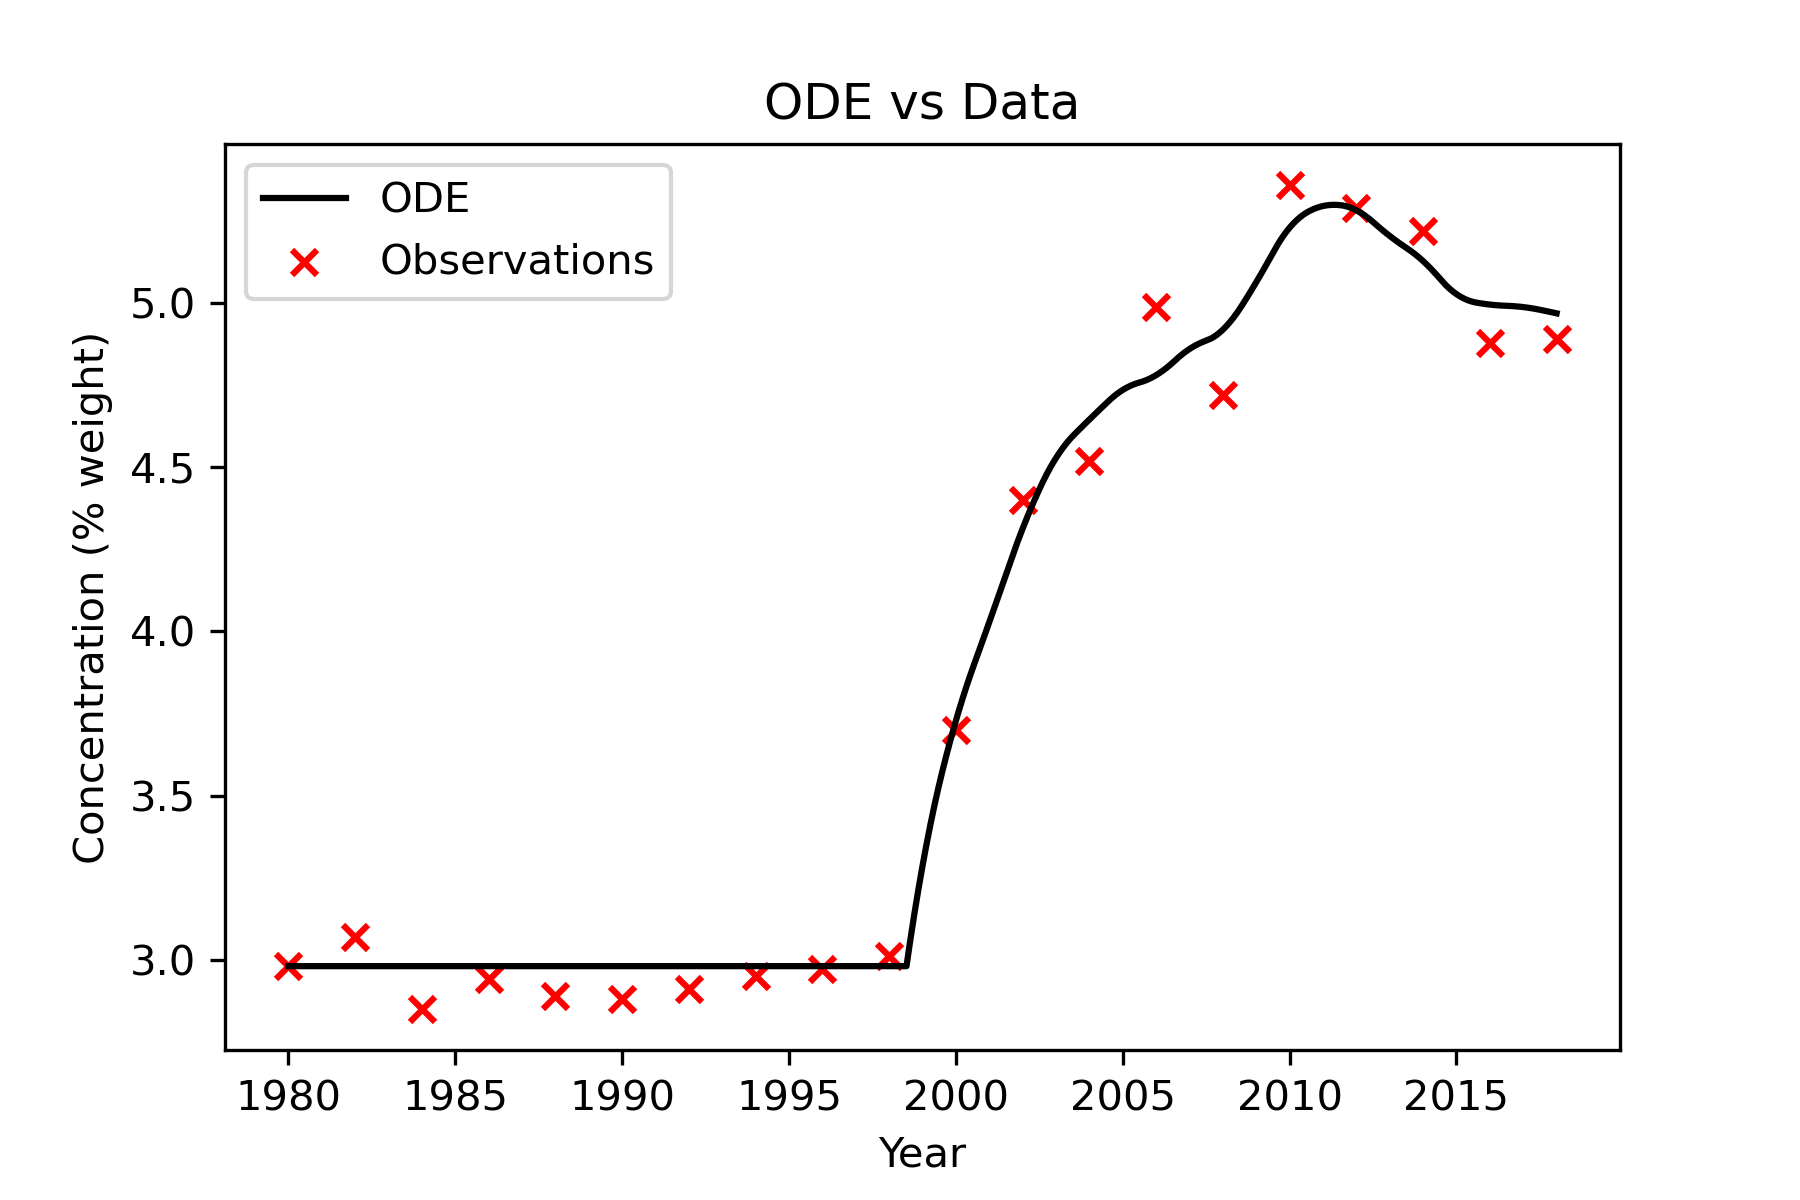
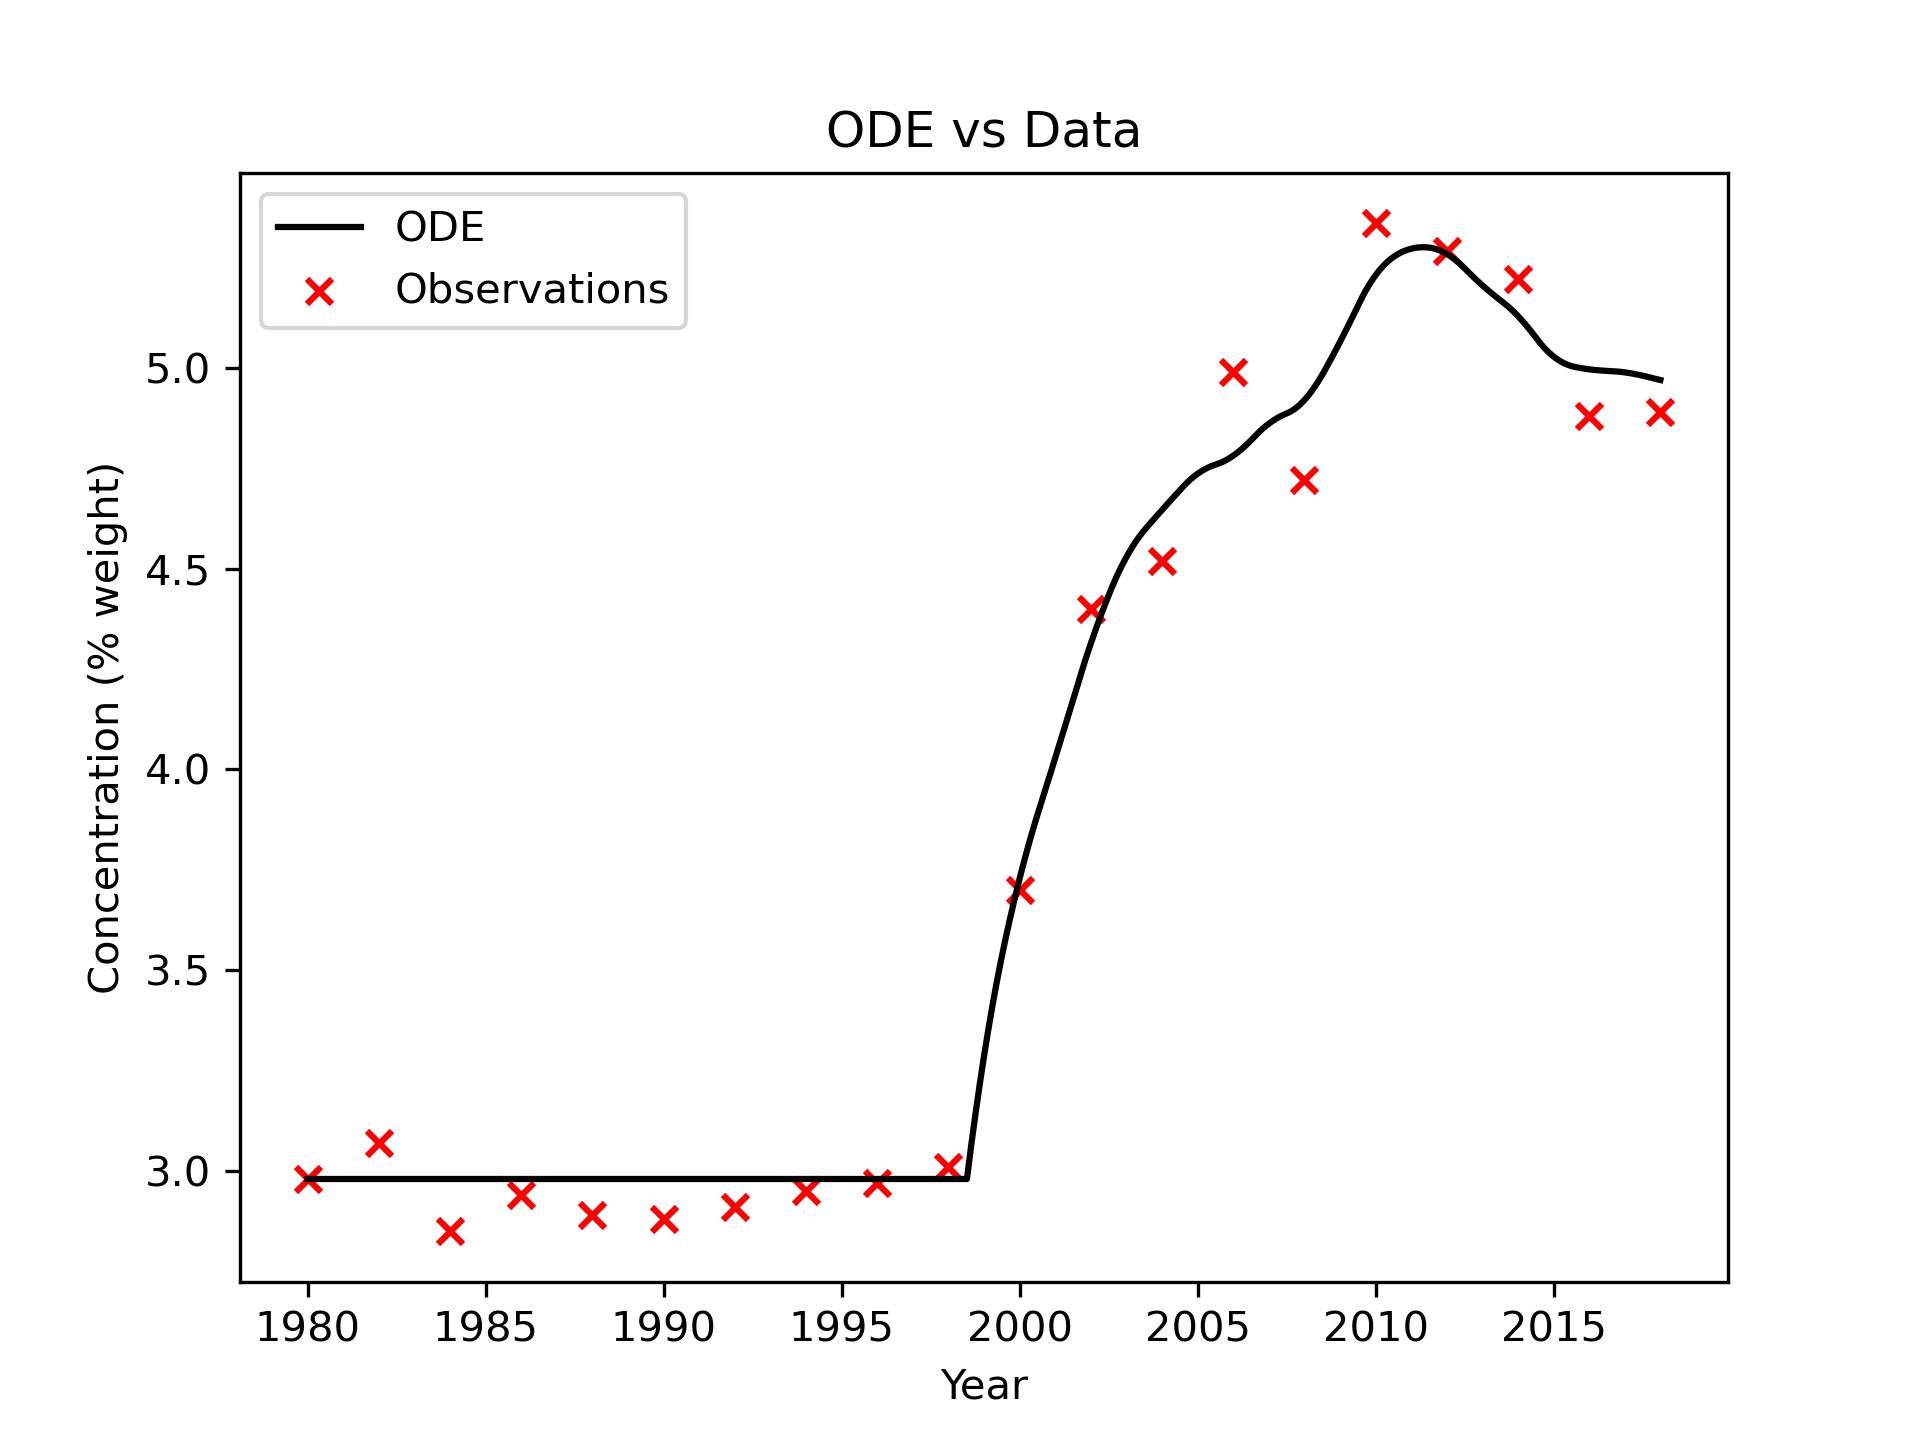
edited plotting

diff --git a/project_1/plot_lpm.py b/project_1/plot_lpm.py
@@ -42,10 +42,8 @@ def plot_pressure_benchmark():
 
     # plot the model solution
     ax1.plot(t_ode, p_ode, color = 'k', label = 'ODE')
-    pars_formatted = []
-    for i in range(len(PARS_P)):
-        pars_formatted.append(np.format_float_scientific(PARS_P[i], precision = 3))
-    ax1.set_title('ODE vs Data \n a=%s b=%s c=%s'% (pars_formatted[0],pars_formatted[1],pars_formatted[2]))
+
+    ax1.set_title('ODE vs Data')
     ax1.set_ylabel("Pressure(MPa)")
     ax1.set_xlabel("Year")
     ax1.legend()
@@ -67,7 +65,10 @@ def plot_pressure_benchmark():
     ## Plot analytical solution and numerical solver solution against eachother
     ax2.plot(t_odeA, p_odeA, color = 'black', label = 'ODE')
     ax2.scatter(time, p_ana, color = 'r', marker = 'x', label = 'Analytical Solution')
-    ax2.set_title('ODE vs Analytical solution')
+    pars_formatted = []
+    for i in range(len(PARS_P)):
+        pars_formatted.append(np.format_float_scientific(PARS_P[i], precision = 3))
+    ax2.set_title('ODE vs Analytical solution  \n a=%s b=%s c=%s'% (pars_formatted[0],pars_formatted[1],pars_formatted[2]))
     ax2.legend()
     plt.savefig('model_vs_ODE_analytical.png',dpi=300)
     plt.show()
@@ -135,6 +136,10 @@ def plot_conc_benchmark():
     # plot the model solution
     t_ode, c_ode = solve_conc_ode_ana(conc_ODE_model, TIME_C[0], CONC[0], TIME_C[-1], STEP, PRESSURE[0], PARS_C)
     plt.plot(t_ode, c_ode,color = 'black', label = 'ODE')
+    parsc_formatted = []
+    for i in range(len(PARS_C)):
+        parsc_formatted.append(np.format_float_scientific(PARS_C[i], precision = 3))
+    plt.title('ODE vs Analytical solution  \n a=%s b=%s d=%s m0=%s'% (parsc_formatted[0],parsc_formatted[1],parsc_formatted[2], parsc_formatted[3]))
     plt.legend()
     plt.show()
     """
@@ -183,19 +188,19 @@ def plot_conc_benchmark():
 # Plot Model predictions
 def plot_model_predictions():
     fig, (ax1, ax2) = plt.subplots(1, 2)
-    fig.set_figwidth(12)
-    plt.subplots_adjust(None, None, None,None, wspace=None, hspace=None)
+    fig.set_figwidth(13)
+    plt.subplots_adjust(None, None, 0.85 ,None, wspace=None, hspace=None)
 
 
     # model
     t_ode, p_ode = solve_pressure_ode(pressure_ode_model, TIME_P[0], PRESSURE[0], TIME_P[-1], STEP, PARS_P)
     # plot the data observations
-    p1, = ax1.plot(TIME_P, PRESSURE,color='k')
+    p1 = ax1.scatter(TIME_P, PRESSURE,color='k', s= 9, label = "Observations")
     # plot the model solution
-    ax1.plot(t_ode, p_ode, color = 'r')
+    ax1.plot(t_ode, p_ode, color = 'r', label = "ODE model")
     tc_ode, c_ode = solve_conc_ode(conc_ODE_model, TIME_C[0], CONC[0], TIME_C[-1], STEP, PRESSURE[0], PARS_C)
-    p2, = ax2.plot(tc_ode, c_ode, color = 'r')
-    ax2.plot(TIME_C, CONC, color = 'k')
+    p2, = ax2.plot(tc_ode, c_ode, color = 'r', label = "ODE model")
+    ax2.scatter(TIME_C, CONC, color = 'k', s= 9, label ="Observations")
 
     # Set up paramters for forecast
     endTime = TIME_P[-1] + 30                     # 30 years projection
@@ -209,17 +214,23 @@ def plot_model_predictions():
 
     # stop injection
     injRates = [0., 0.5, 1., 2., 4.] #different injection rate multipliers
-    colours = ['green', 'orange', 'blue', 'cyan', 'pink'] #for graph
-    labels = ['Stop, injection =', 'Halve injection', 'Same injection', 'Double injection', 'Quadruple injection'] #for graph
+    colours = ['orange', 'green', 'mediumseagreen', 'blue', 'slategrey'] #for graph
+    labels = ['qc02 = 0.0 kg/s', 'qc02 = %.2f kg/s',  'qc02 = %.2f kg/s ','qc02 = %.2f kg/s ','qc02 = %.2f kg/s'] #for graph
 
     for i in range(len(injRates)):
         q_net = q_prod[-1] - (q_inj[-1])*injRates[i]
         q_newInj = (q_inj[-1])*injRates[i]
         t, p, c = get_p_conc_forecast(ts, PARS_C, PARS_P , q_net, q_newInj)
-        ax1.plot(t, p, color=colours[i], label = labels[i])
-        ax2.plot(t, c, color=colours[i], label = labels[i])
+        ax1.plot(t, p, color=colours[i])
+        ax2.plot(t, c, color=colours[i], label = labels[i] %(q_newInj))
 
-    ax1.legend(loc = 'upper center')
+    ax2.axhline(0.10, linestyle = "--", color = 'crimson', label = '10 wt% C02' )    #ax1.axvline(t_ode[calibrationPointP], linestyle = '--', label = 'Calibration Point')
+    ax1.axhline(PRESSURE[0], linestyle = "--", color = 'orange', label = 'Ambient Pressure P0')
+    ax2.set_title("Concentration C02wt%")
+    ax1.set_title("Pressure MPa")
+    plt.suptitle("30 Year Forecast for Ohaaki Geothermal Field")
+    ax2.legend(bbox_to_anchor=(1,1), loc="upper left")
+    ax1.legend()
     plt.show()
     return
 
